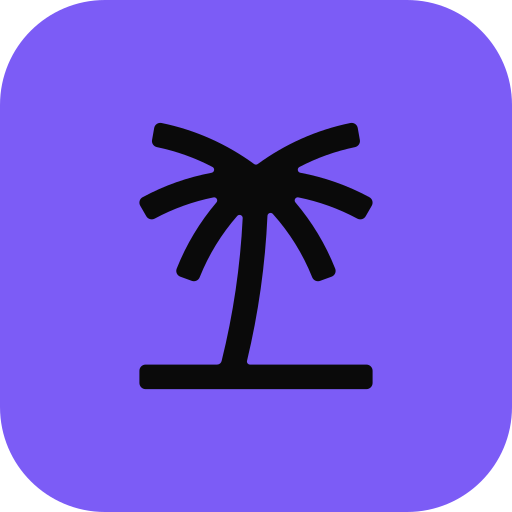
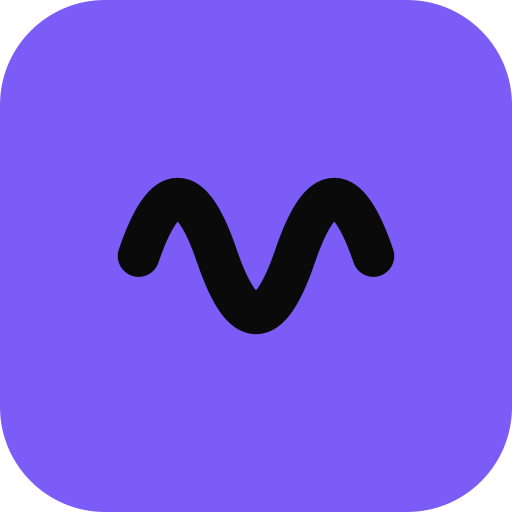
feat(web): an original mark — the waveform timbre actually describes
The palm was lifted from Poke.com's brand kit. It was fine while this was
a private experiment and wrong the moment v0.3.0 was tagged and deployed,
with "a new mark, in the icons and at the head of the rail" as the
headline entry of the changelog. This replaces it with something drawn
here.

Three lobes of a rich waveform, which is the thing the word means: two
instruments playing the same note at the same volume differ in the shape
of the wave, and that shape is their timbre. Same violet, same corner
radius, same sizes.

Rejected on the way: a spectrum-bar mark, legible but a near-copy of the
three-bar playing indicator already in the player bar; and a prism, which
at icon size reads unmistakably as a back arrow.

The viewBox is the ink's own bounding box rather than a round number. Each
quadratic peaks at y=8 and y=52 rather than at its control point, and half
of the 16-unit stroke either side lands the drawn edge exactly on 0 and
60 — so `h-6` in the rail gives six units of mark, not six units of mostly
padding. Sized by width in the square icons, since a 106x60 mark set by
height would sit tiny in the middle of them.

16px is soft, as three lobes in sixteen pixels must be; 32px up is clean,
and icon.svg is what every current browser takes for the tab.

Changed region(s): [[0.2188, 0.2188, 0.7812, 0.7812]]

diff --git a/apps/web/app/shell/brand.tsx b/apps/web/app/shell/brand.tsx
@@ -11,8 +11,15 @@
  */
 
 /**
- * The palm, at its own aspect. Sized by height alone; the viewBox supplies the width, which
- * is why nothing here sets one — a square box would letterbox a mark that is 247×282.
+ * The waveform, at its own aspect. Sized by height alone; the viewBox supplies the width,
+ * which is why nothing here sets one — a square box would letterbox a mark that is 106×60.
+ *
+ * The viewBox *is* the ink's bounding box, deliberately. Each quadratic peaks at y=8 and
+ * y=52 rather than at its control point, and half of the 16-unit stroke on either side puts
+ * the drawn edges exactly on 0 and 60 — so `h-6` gives six units of visible mark rather than
+ * six units of mostly padding. `apps/web/app/icon.svg` is generated from this same path.
+ *
+ * Stroked, not filled: this is one open curve, and a fill would close it into a blob.
  *
  * Labelling is the caller's, not this component's: the same mark is a named landmark in the
  * rail and pure decoration anywhere it sits beside the word "Timbre", and only the caller
@@ -21,8 +28,13 @@
  */
 export function TimbreMark(props: React.SVGProps<SVGSVGElement>) {
   return (
-    <svg viewBox="0 0 247 282" fill="currentColor" {...props}>
-      <path d="M243.615 78.7253C220.468 66.2067 195.76 57.5623 170.443 52.8208C167.377 52.2426 166.769 48.1372 169.518 46.6917C187.861 37.122 207.593 29.981 228.28 25.7021C231.781 24.9793 234.125 21.6545 233.517 18.1274L231.26 5.40644C230.595 1.7058 227.094 -0.607097 223.391 0.144595C187.514 7.48804 154.183 22.5219 125.337 43.5981C124.18 44.4366 122.675 44.4366 121.518 43.5981C92.7297 22.5219 59.399 7.48804 23.5223 0.144595C19.8478 -0.607097 16.318 1.7058 15.6525 5.40644L13.3958 18.1274C12.7592 21.6545 15.1028 24.9793 18.6326 25.7021C39.3196 29.981 59.0518 37.0931 77.3953 46.6917C80.1439 48.1372 79.5363 52.2426 76.4694 52.8208C51.1821 57.5912 26.4734 66.2067 3.35605 78.7542C0.144503 80.4889 -0.954946 84.5943 0.867825 87.7456L7.31986 98.9342C9.1137 102.028 13.0486 103.069 16.2023 101.392C35.9634 90.7523 56.9687 83.2643 78.4658 78.9277C81.5038 78.3205 83.6448 81.8766 81.6195 84.2473C64.0572 104.948 49.7065 128.568 39.4932 154.415C38.1334 157.826 39.9272 161.672 43.3702 162.915L55.4931 167.338C58.8493 168.552 62.5527 166.847 63.8547 163.522C73.4315 139.497 86.9721 117.611 103.608 98.5873C105.663 96.2455 109.54 97.8067 109.395 100.9C106.849 152.131 99.3553 202.841 87.0589 252.279C86.5091 254.477 84.5128 256.009 82.256 256.009H6.5676C2.95099 256.009 -0.000161202 258.958 -0.000161202 262.572V275.466C-0.000161202 279.08 2.95099 282.029 6.5676 282.029H240.432C244.049 282.029 247 279.08 247 275.466V262.572C247 258.958 244.049 256.009 240.432 256.009H117.178C115.066 256.009 113.504 254.043 113.995 251.99C126.031 201.8 133.294 150.396 135.637 98.5005C135.782 95.5516 139.398 94.2506 141.366 96.4768C158.87 115.992 173.076 138.6 183 163.522C184.331 166.847 188.006 168.581 191.362 167.338L203.514 162.915C206.957 161.672 208.751 157.826 207.391 154.415C197.177 128.568 182.827 104.948 165.264 84.2473C163.239 81.8766 165.38 78.2916 168.418 78.9277C189.944 83.2643 210.978 90.7523 230.768 101.392C233.922 103.097 237.857 102.057 239.651 98.9342L246.103 87.7456C247.926 84.5653 246.826 80.4889 243.615 78.7542V78.7253Z" />
+    <svg viewBox="0 0 106 60" fill="none" {...props}>
+      <path
+        d="M8 30 Q23 -14 38 30 Q53 74 68 30 Q83 -14 98 30"
+        stroke="currentColor"
+        strokeWidth={16}
+        strokeLinecap="round"
+      />
     </svg>
   );
 }
